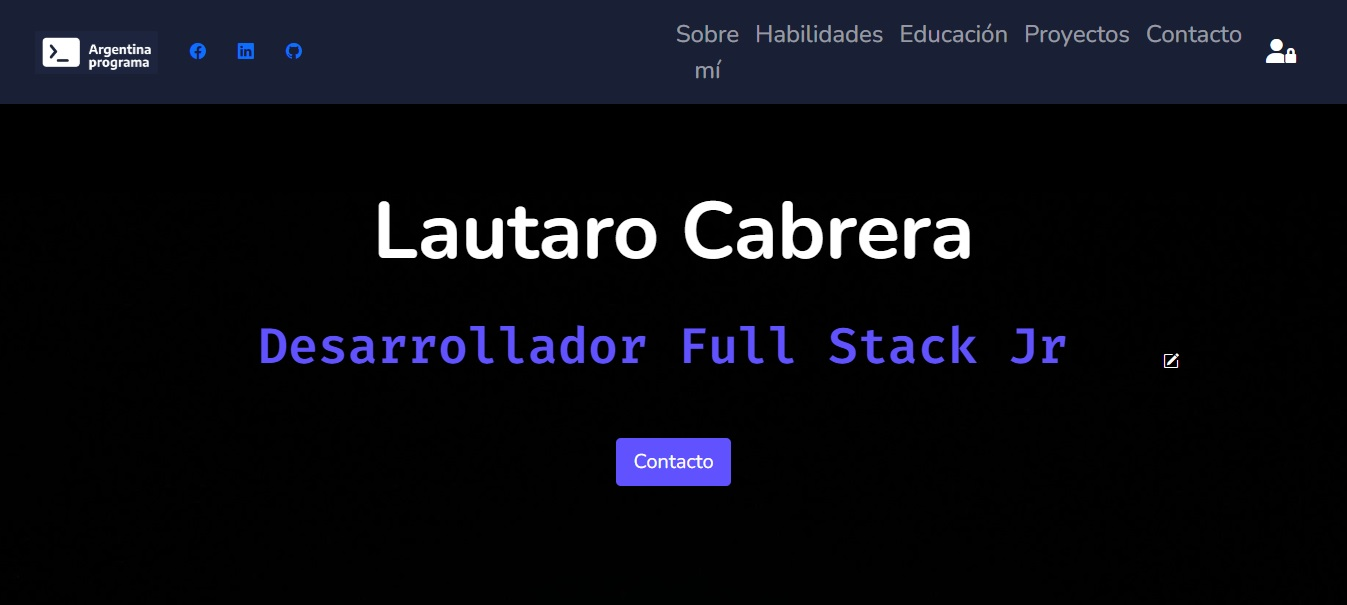
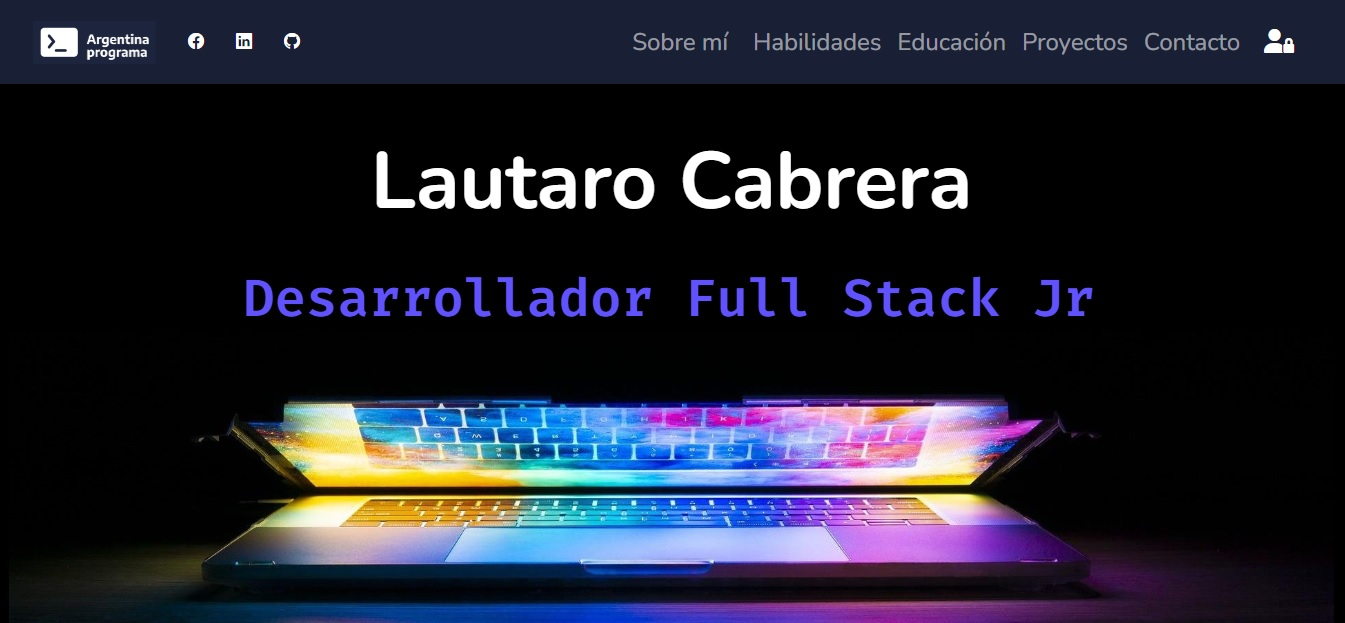
Resposive imagen principal

diff --git a/Front-End/src/app/componentes/encabezado/encabezado.component.html b/Front-End/src/app/componentes/encabezado/encabezado.component.html
@@ -1,14 +1,14 @@
 <!--Header-->
 <header id="inicio" class="container-fluid header">
     <!--Barra de navegación-->
-   <div class="row" style="height: 250px;">
+   <div class="row" style="height: 200px;">
        <div class="col header-nav">
         <nav class="navbar navbar-expand-lg navbar-dark">
                <div class="container-fluid">
                    <a class="navbar-brand" target="_blank" href="https://www.argentina.gob.ar/economia/conocimiento/argentina-programa"><img src="../assets/logoAP.svg" alt="Argentina Programa"></a>
                    <ul _ngcontent-vtp-c14 id="main-menu" class="main-menu">
                        <li _ngcontent-vtp-c14 class="main-menu__item">
-                           <a target="_blank" class="nav-link" href="https://www.facebook.com/lauti.cabrera.35"><i class="bi bi-facebook"></i></a>
+                           <a target="_blank" class="nav-link" href="https://wa.me/5492615881975/?text=Hola+Lautaro,++vi+tu+CV+y+quisiera+contactarte."><i class="bi bi-whatsapp"></i></a>
                        </li>
                        <li _ngcontent-vtp-c14 class="main-menu__item">
                            <a target="_blank" class="nav-link" href="https://www.linkedin.com/in/lautaro-cabrera-fernandez-a56a89231/"><i class="bi bi-linkedin"></i></a>
@@ -22,7 +22,7 @@
                    </button>
                    <div class="collapse navbar-collapse" id="navbarText">
                        <ul class="navbar-nav me-auto mb-2 mb-lg-0 fs-4">
-                           <li class="nav-item">
+                           <li style="width: 130px;" class="nav-item">
                                <a class="nav-link" href="#sobre_mi">Sobre mí</a>
                            </li>
                            <li class="nav-item">
@@ -52,17 +52,14 @@
            <div class="col-12">
                <h2 class="display-1">Lautaro Cabrera</h2>
            </div>
-           <div>
+           <div style="height: 92px;">
                <div align="center">
-                <a href="https://git.io/typing-svg" class="responsive"><img width="90%"
+                <a><img width="90%"
                     src="https://readme-typing-svg.demolab.com?font=Fira+Code&weight=600&size=50&pause=1000&color=6052FF&center=true&width=1000&height=150&lines=Desarrollador+Full+Stack+Jr;T%C3%A9cnico+Desarrollador+de+Software;Tester+QA+Manual"></a>
                    <span class="edit-icon" data-bs-toggle="modal" data-bs-target="#editUserModal"><i class="bi bi-pencil-square" href="#" style="color: rgb(255, 255, 255);"></i></span>
                </div>
            </div>
        </div>
-   </div><br><br>
-   <div align="center">
-       <a class="btn btn-lg" href="#contacto">Contacto</a>
    </div>
-   <script src="bootstrap.bundle.min.js.map"></script>
+    <img width="100%" src="../assets/keyboard2.jpg">
  </header>

diff --git a/Front-End/src/styles.css b/Front-End/src/styles.css
@@ -93,16 +93,18 @@ a{
 
 /* Header */
 .header {
-    min-height: 53rem;
-    background-image: url(../src/assets/keyboard.jpg);
     background-repeat: no-repeat;
     background-size: cover;
-    background-position:  center;
+    background-position: centers;
+    background-color: black;
 }
-@media (min-width: 768px){
-    .header{
-        min-height: 57rem;
-    }
+
+.nav-link {
+    display: block;
+    padding: 0.5rem 1rem;
+    color: #FFF;
+    text-decoration: none;
+    transition: color .15s ease-in-out,background-color .15s ease-in-out,border-color .15s ease-in-out;
 }
 
 .main-menu[_ngcontent-vtp-c14] {
@@ -114,6 +116,13 @@ a{
     display: inline-flex;
     flex-direction: row;
     align-items: flex-end;
+}
+
+@media (max-width: 990px){
+    .main-menu[_ngcontent-vtp-c14]{
+        flex-direction: column;
+        align-items: center;
+    }
 }
 
 .main-menu__item[_ngcontent-ejh-c14] {
